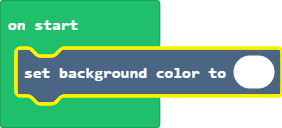
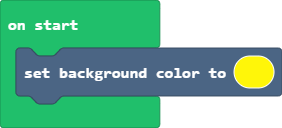
i made backround yellow

Changed region(s): [[0.0284, 0.3438, 1.0, 0.8438]]

diff --git a/main.ts b/main.ts
@@ -1,1 +1,1 @@
-scene.setBackgroundColor(1)
+scene.setBackgroundColor(5)
